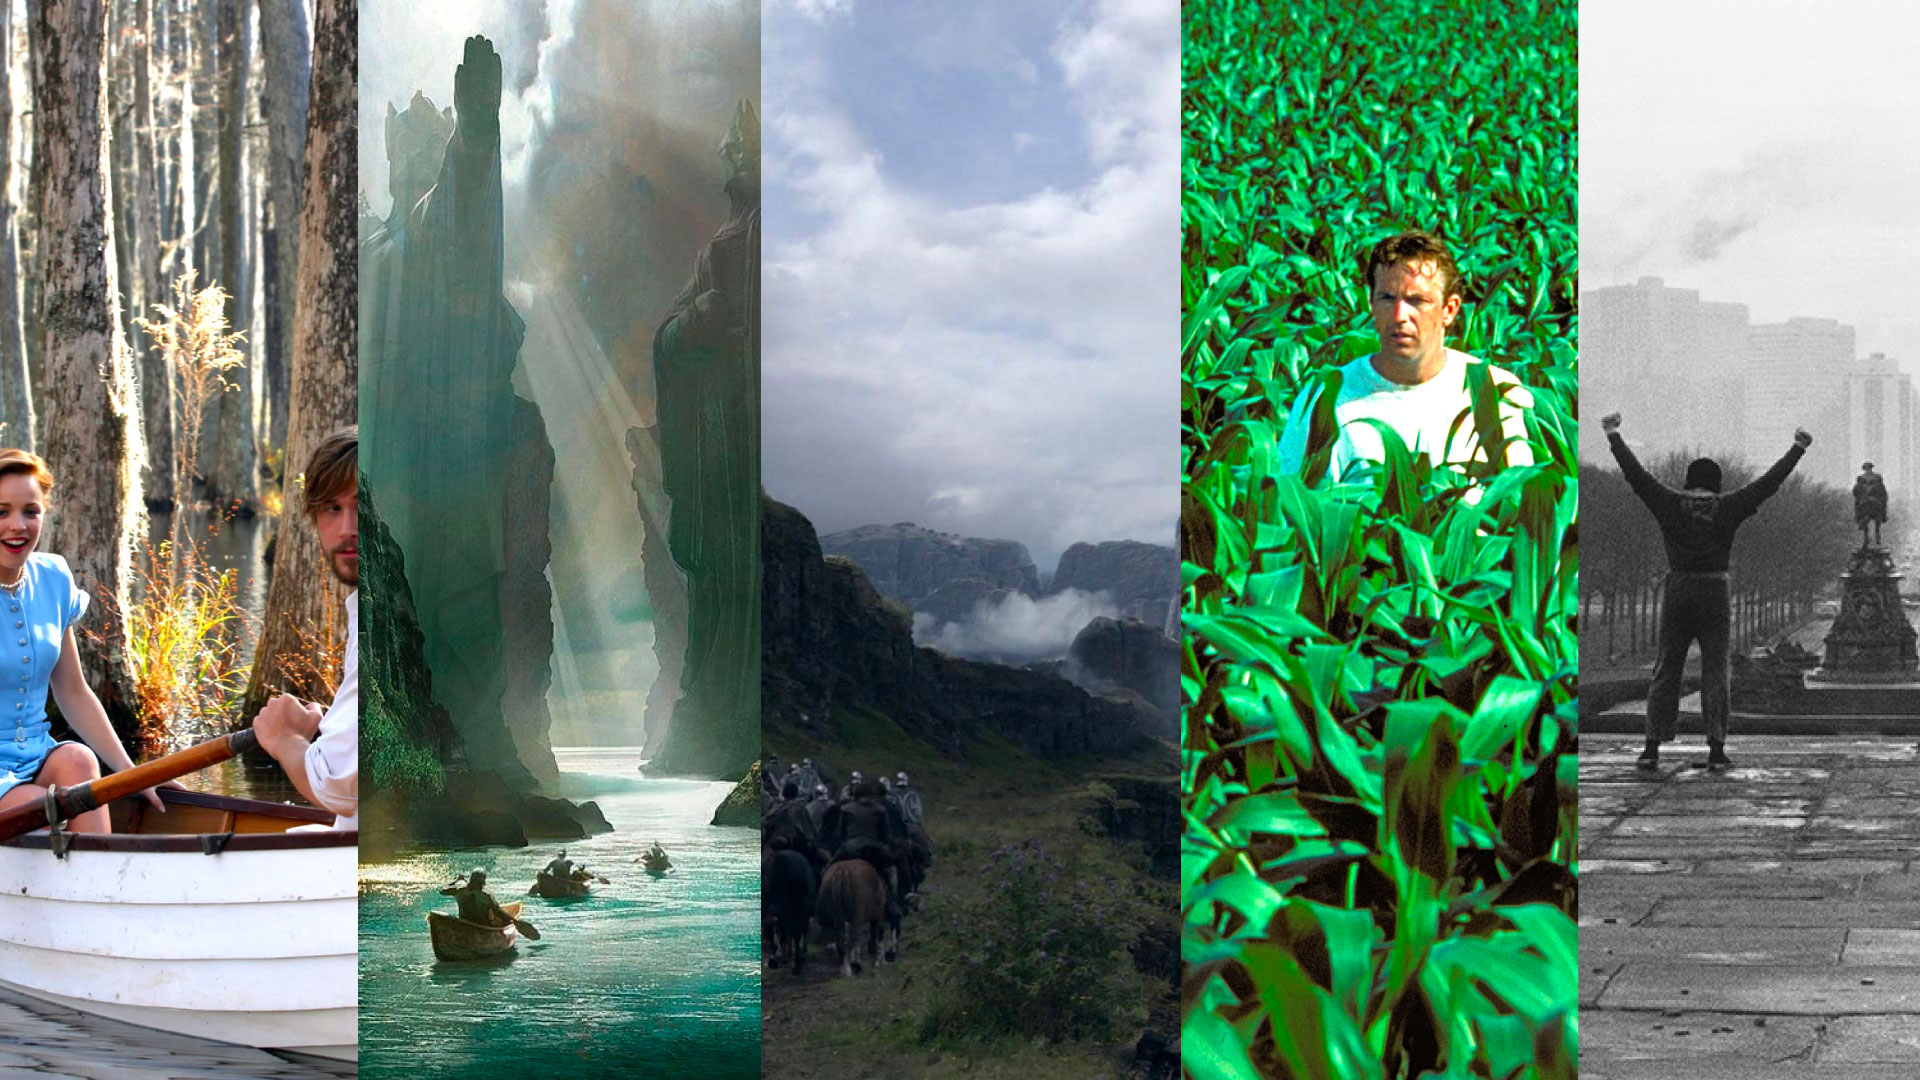
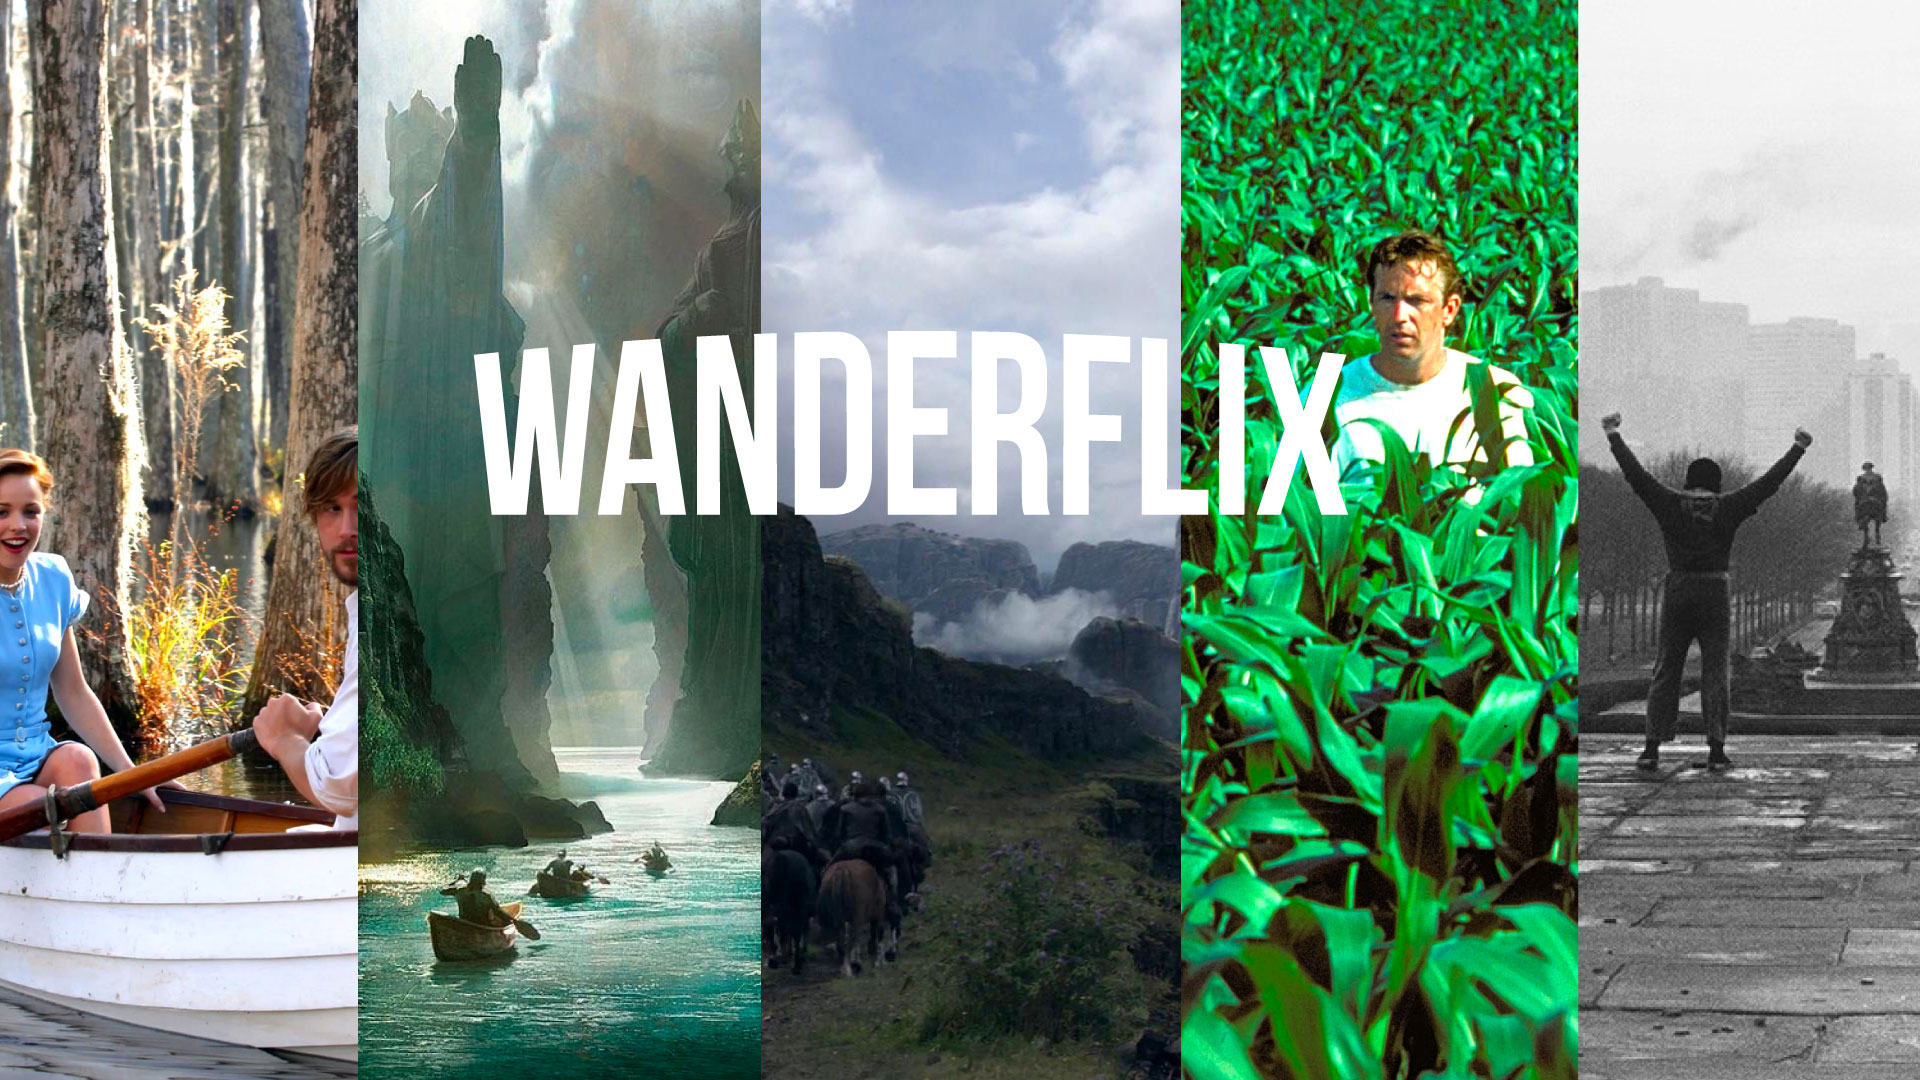
Changes to Home Page and NavBar

Changed region(s): [[0.25, 0.3056, 0.7188, 0.4889]]

diff --git a/front-end/src/navbar/Navbar.js b/front-end/src/navbar/Navbar.js
@@ -1,5 +1,5 @@
 import { Link, useMatch, useResolvedPath } from "react-router-dom"
-import WanderflixLogo from '../images/WFLogo.png';
+import WanderflixLogo from '../images/WLogo.png';
 
 export default function Navbar() {
 
@@ -7,8 +7,8 @@ export default function Navbar() {
         <nav className="nav">
             <Link to="/" className="site-title"><img src={WanderflixLogo} alt="Wanderflix Logo" /></Link>
             <ul>
-                <CustomLink to="/Login">LOG IN / SIGN UP</CustomLink>
                 <CustomLink to="/Watchlist"><i class="fa-sharp fa-solid fa-heart"></i>WATCHLIST</CustomLink>
+                <CustomLink to="/Login">SIGN IN</CustomLink>
             </ul>
         </nav>
     )

diff --git a/front-end/src/pages/Home.js b/front-end/src/pages/Home.js
@@ -2,9 +2,10 @@ import './Home.css';
 
 export default function Home() {
     return (
-        <div className="Wallpaper">
-            <p></p>
-            <p></p>
-        </div>
+        <>
+            <div className="Wallpaper">
+                <p></p>
+            </div>
+        </>
     )
 }
